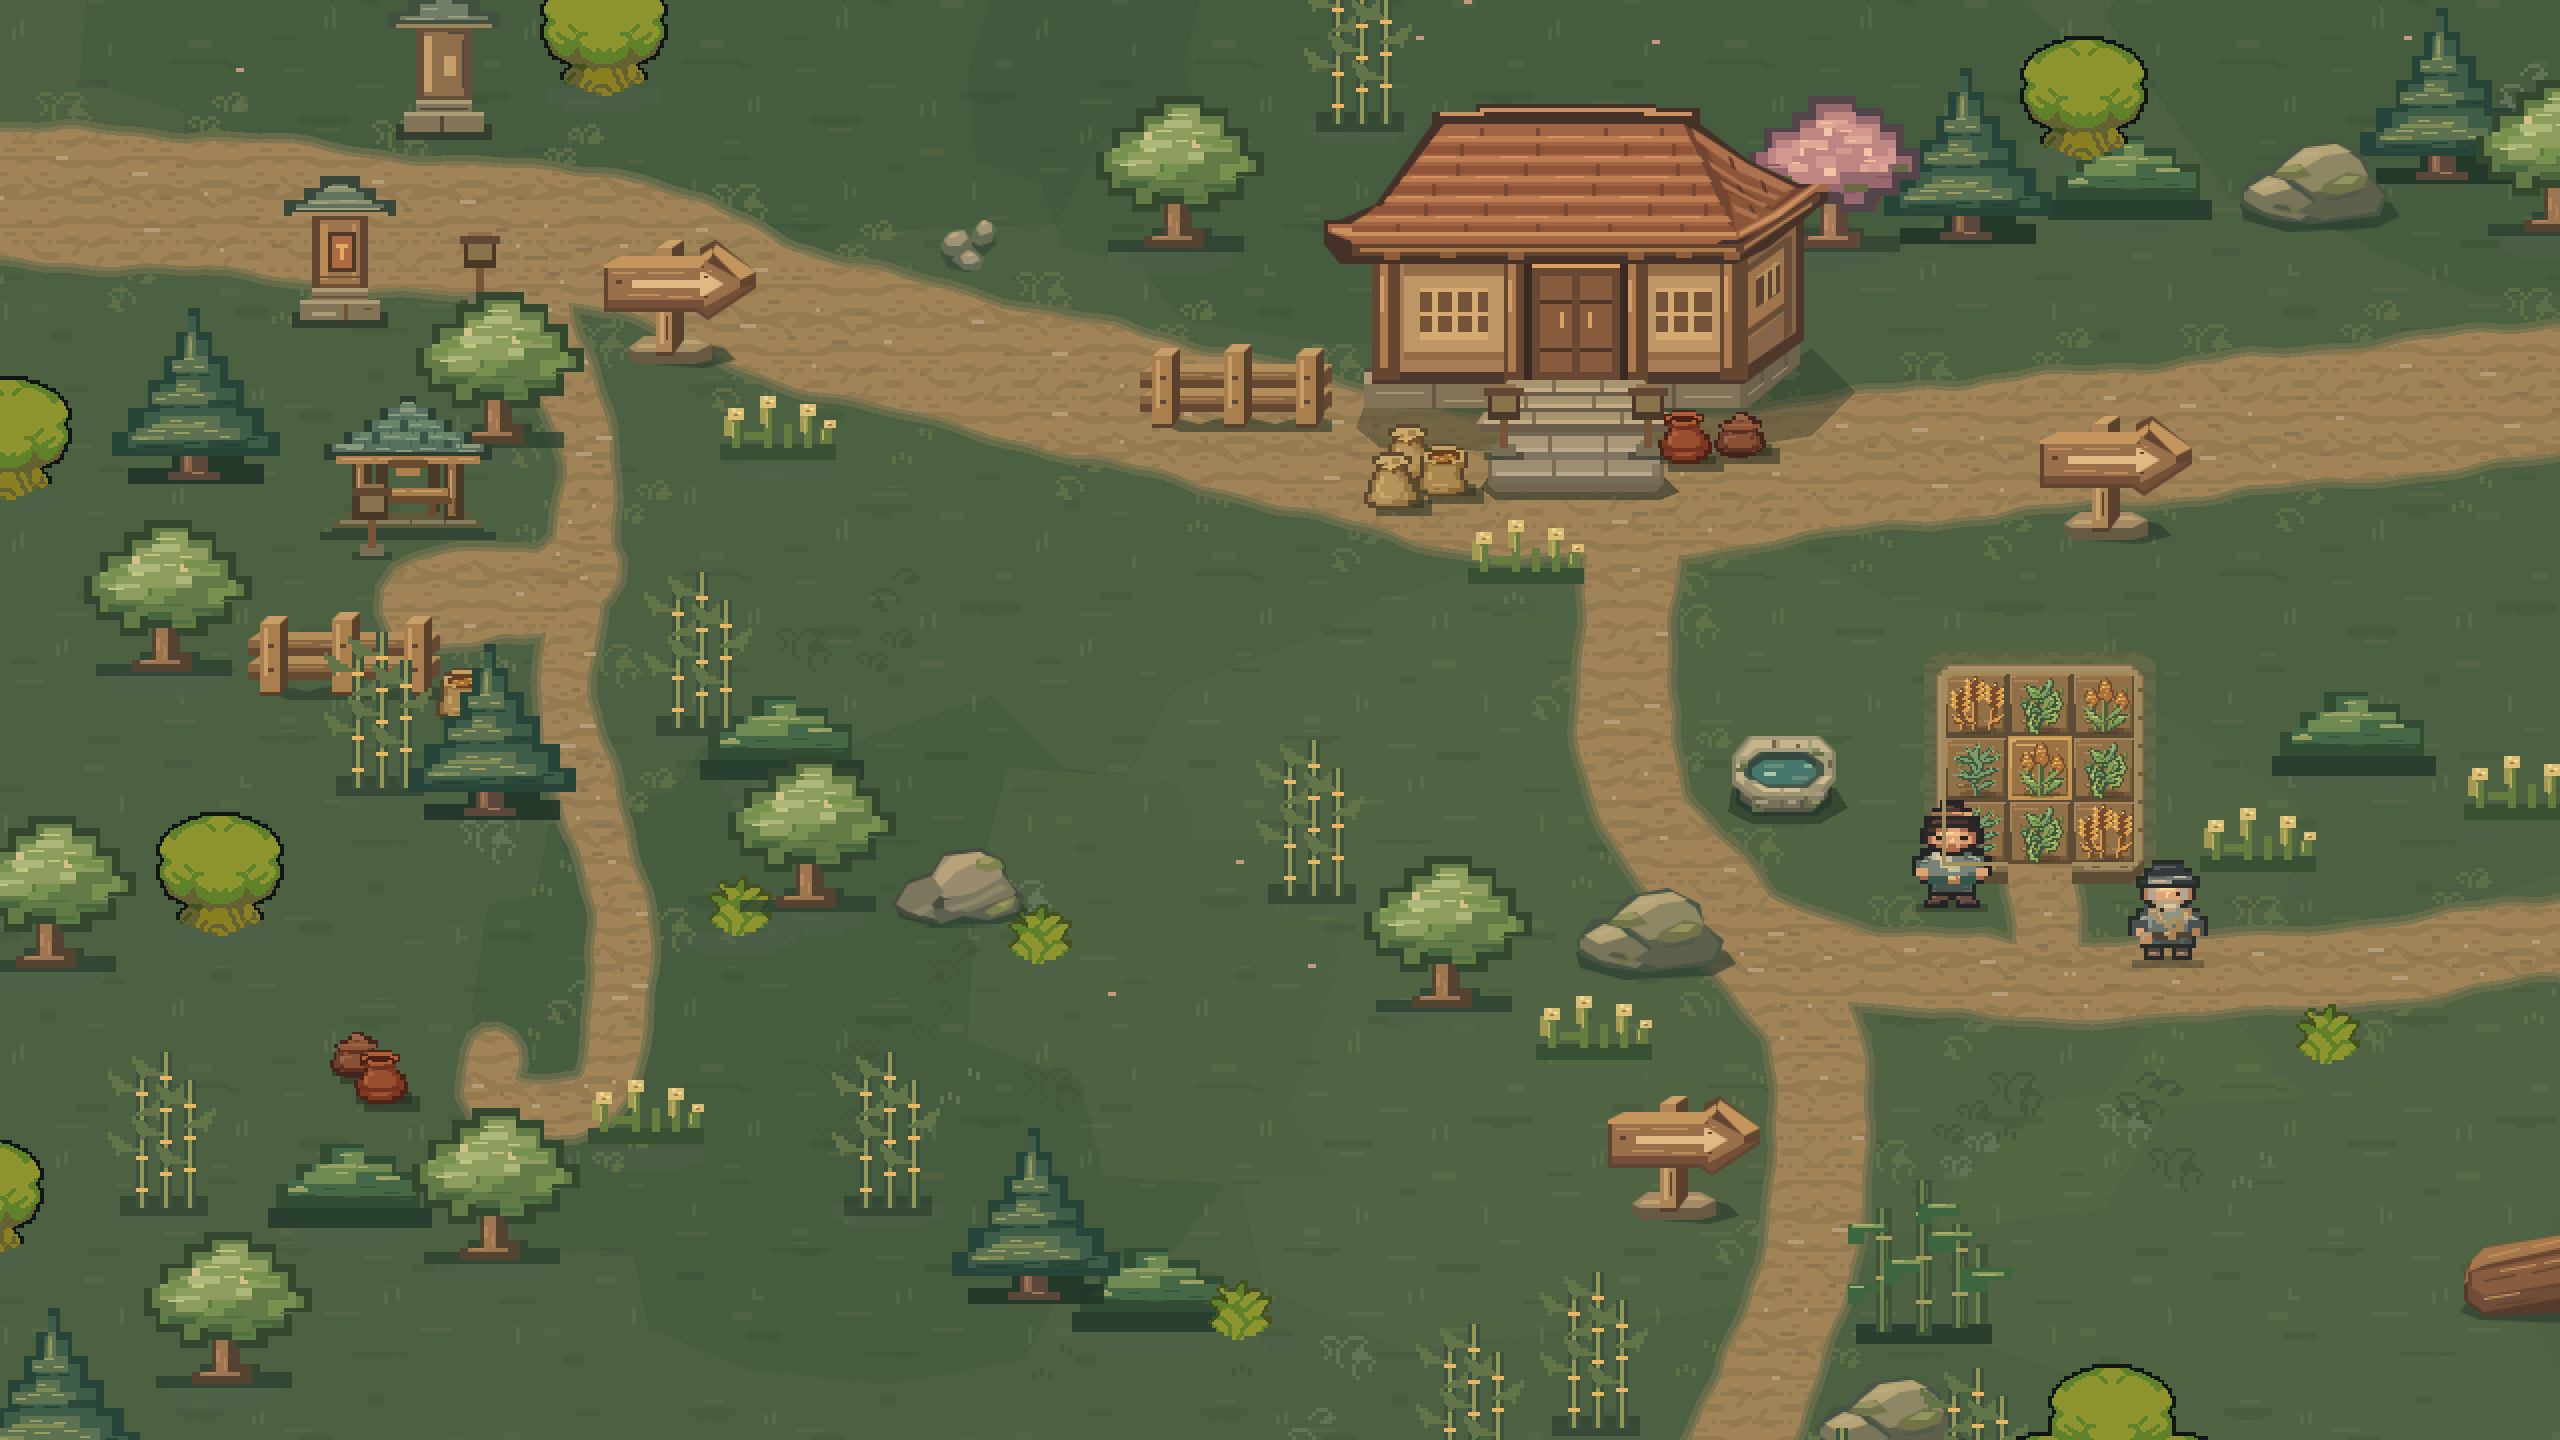
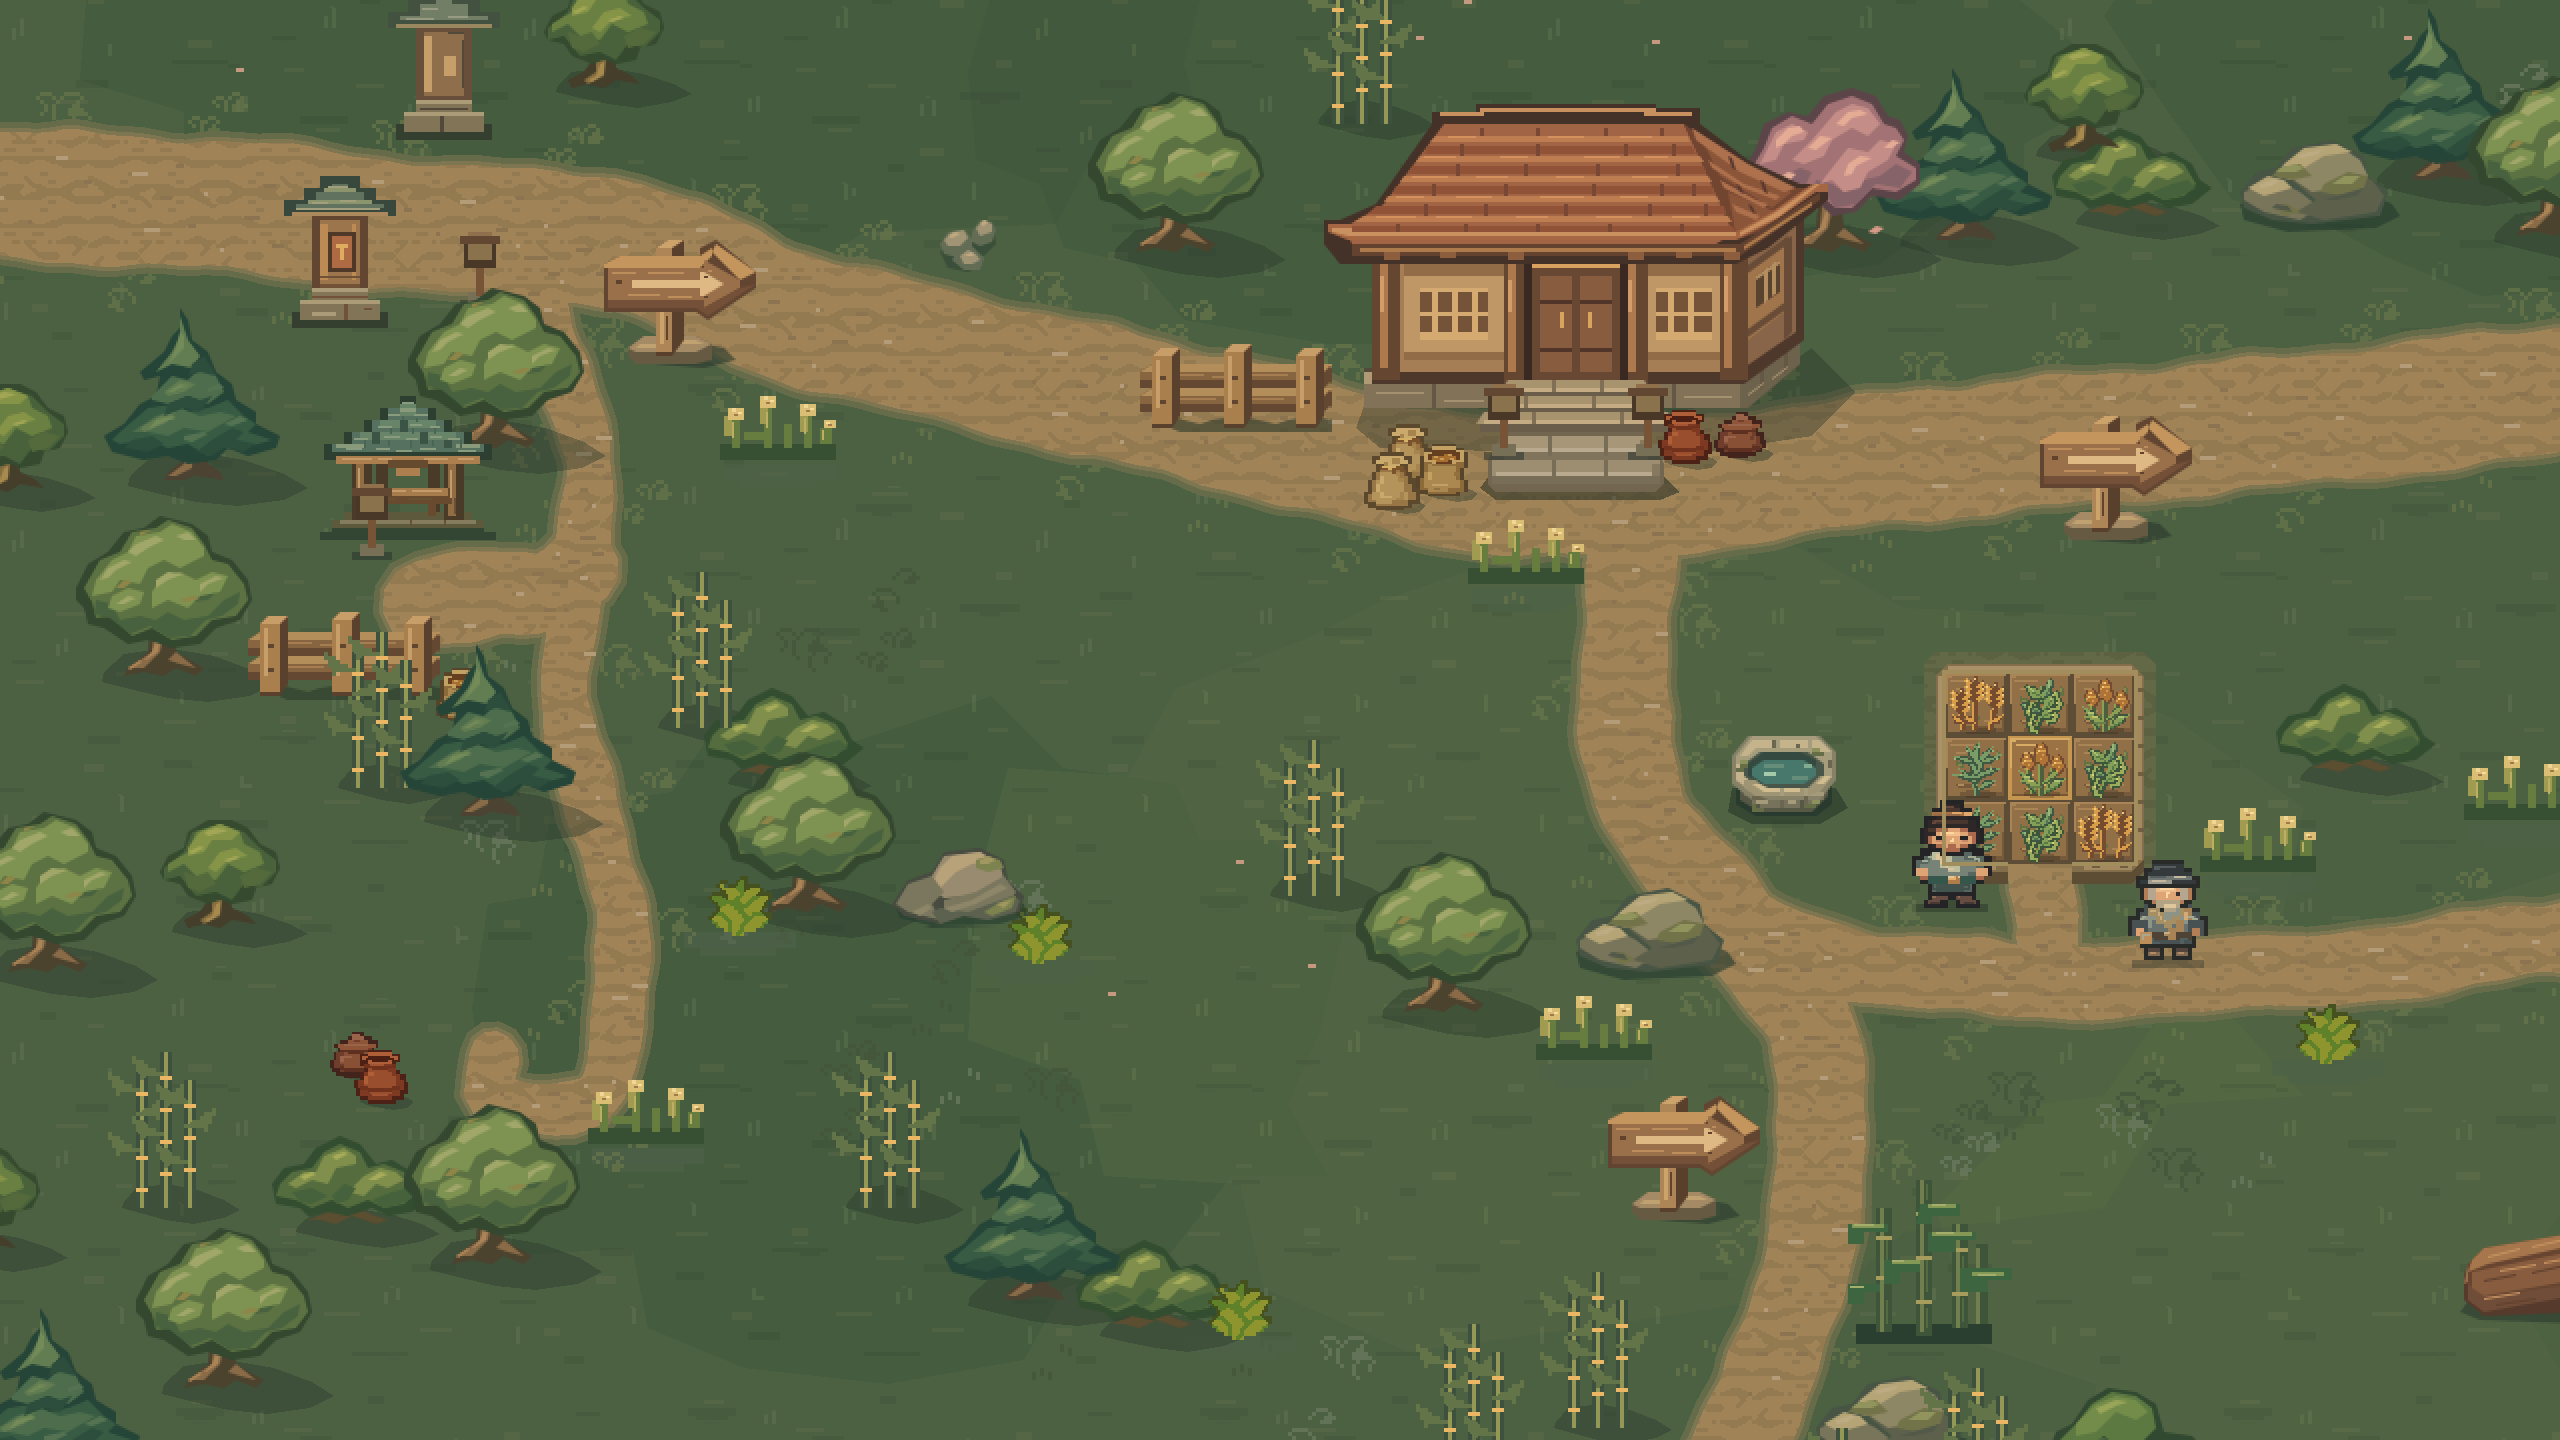
统一封地和西市的斜俯视树木与物件

diff --git a/docs/game_design/11_美术音效需求.md b/docs/game_design/11_美术音效需求.md
@@ -53,13 +53,13 @@ Windows 版默认窗口和画面渲染分辨率为 1920×1080，画面比例为 
 
 本作以站姿实际着色的 27 像素衡量门面，以 14×14 的脚底碰撞校准通行，以 16×16 田格衡量道路和建筑宽度。单人常走的小径至少一格宽，能并行的主路至少两格宽。关柱各按石基的位置排序与碰撞。镜头缩放同时作用于人物、地表和建筑。
 
-场景里的物件沿用同一套斜俯视。路牌和木栏露出板厚及柱顶，堆木露出亮木面和断面。陶罐用亮口沿、深色内壁和罐身弧面区分开口与带盖，谷袋露出袋口与垂下的袋身。光从画面左上来，物件影子落向右下。高物件以脚底排序，玩家走到它们后面会被挡住一部分。亭东雨棚的前柱单独按柱脚排序，居民与席案可以出现在棚内。野果和野药用叶片朝向区分枝叶的高低，采过后当天可见果实或嫩梢减少。舆图沿用俯视示意，背包图案以小尺寸下能辨认种类为准。
+场景里的物件沿用同一套斜俯视。路牌和木栏露出板厚及柱顶，堆木露出亮木面和断面。陶罐用亮口沿、深色内壁和罐身弧面区分开口与带盖，谷袋露出袋口与垂下的袋身。光从画面左上来，树和器物的影子从着地处向右下展开，遇雨变淡。高物件以脚底排序，玩家走到它们后面会被挡住一部分。亭东雨棚的前柱单独按柱脚排序，居民与席案可以出现在棚内。野果和野药用叶片朝向区分枝叶的高低，采过后当天可见果实或嫩梢减少。舆图沿用俯视示意，背包图案用物件原有的轮廓和配色，以小尺寸下能辨认种类为准。
 
 西市到南路的木车有侧面、斜向内外和两种端面，左右沿路向镜像。车斗底、货物和近侧护栏分层绘制，阴影落在轮下。转弯按车辕朝向换帧，申禾领车走在车辕前，停稳后站到交谈的一侧。
 
 竹涧木桥上游的水从岩坎落入潭中。岩顶有草苔，朝溪的一面露出岩层，近水处有深色投影。水线从坎顶往下落，水花在潭里散开。由东岸循石阶上望溪台，能看到每级石阶的踏面和近侧立面。谷雨压暗湿岩，霜雪停在岩沿和桥栏上。
 
-竹涧的松树、幼树和成片灌木使用项目内绘制的 `assets/world/ravine-woodland.svg`。树冠的亮面向左上，枝叶层层压住下面的暗面，树根接到地面，投影随地表向右下展开。雨天影子变淡，冬霜落在枝叶上沿。野果与望溪台的野药用同角度绘制在 `assets/world/ravine-forage.svg`，采集后原处仍留灌木和石缝基叶。靠近时，两行采集提示浮在物件上方。
+竹涧和封地的松树、幼树和成片灌木使用项目内绘制的 `assets/world/ravine-woodland.svg`。溪桥道和西市的松树也取自这套图集。四处的阔叶树、花树和冬枝使用 `assets/world/seasonal-trees.svg`。树冠的亮面向左上，枝叶叠在下面的暗面上，露出的根部接到地面。松枝上沿有冬霜，落叶树冬季露出枝杈。野果与望溪台的野药用同角度绘制在 `assets/world/ravine-forage.svg`，采集后原处仍留灌木和石缝基叶。靠近时，两行采集提示浮在物件上方。
 
 南池远岸的岩面降到水线，近岸铺浅色浅滩、水下碎石和芦苇。节庆石坪的铺石随湿度和冬霜换色。秋社棚布露出顶面和近侧木梁，展台能看见三只浅盘和双耳簋，图采用项目内绘制的 `assets/world/autumn-exhibit.svg`。冬至炉案用木桌顶面衬出锅沿和陶碗，炭火与蒸汽随开炉状态出现。
 
